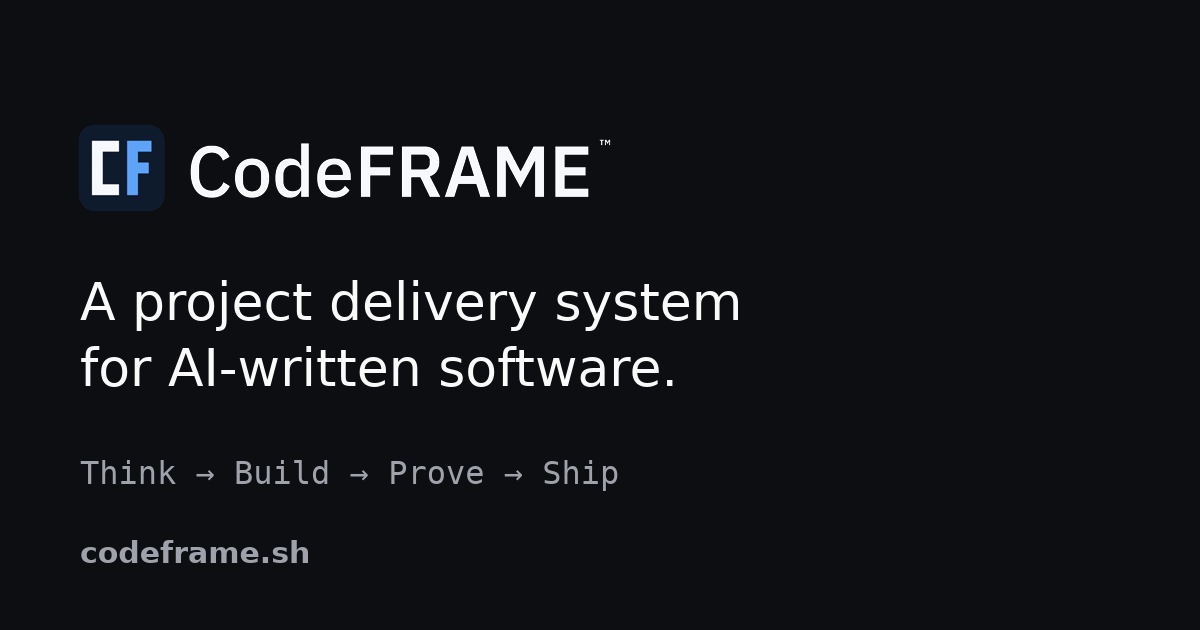
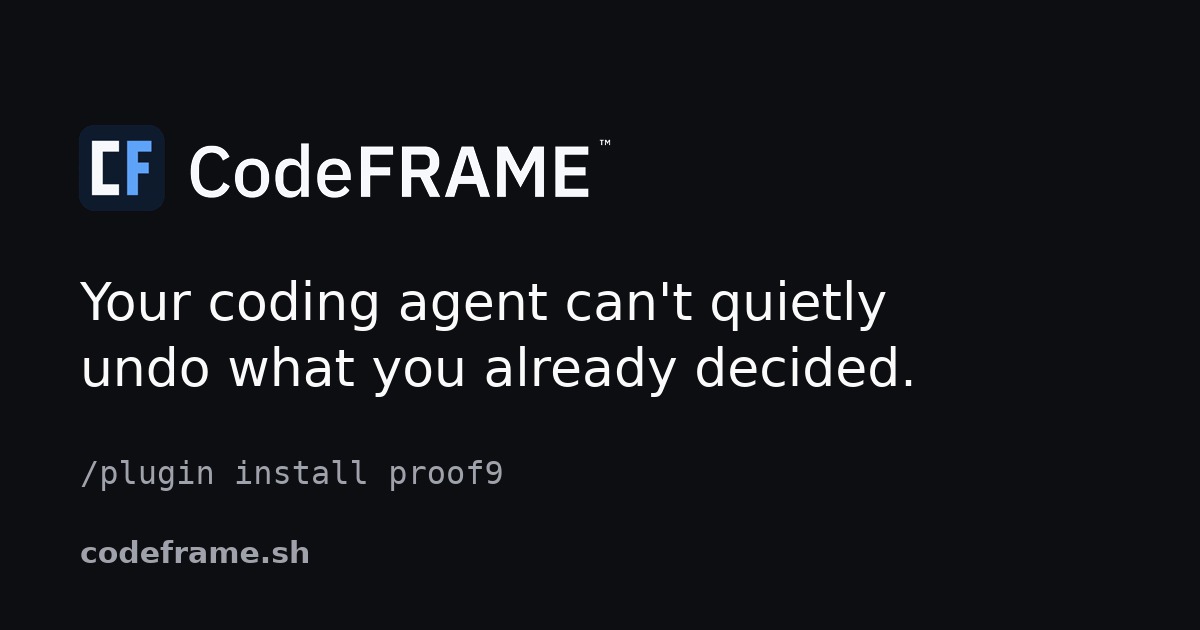
docs: lead with the requirement ledger, not the pipeline (#1522)
* docs: lead with the requirement ledger, not the pipeline

The README header, the codeframe.sh page and the social card still described
the product as it was before #1512 removed the web UI and the server: "a
project delivery system for AI-written software", with Think -> Build -> Prove
-> Ship on the card. The one thing a visitor can install is the proof9 plugin,
so the headline is now what the demo already showed - a coding agent cannot
quietly undo a decision already made - with the mechanism as the subhead and
"regression memory for coding agents" as the category line.

- README: new header, install line under the nav, Overview opens on the ledger
  and the pipeline follows, proof9 demo precedes the CLI demo.
- site: h1, lede, <title>, meta description, og:title, og:description,
  og:image:alt; make-og-image.sh copy and a regenerated og-image.png.
- proof9/README.md: "requirement" where the plugin says it (#1473).

No claim changed. The limitations block stays pinned to the README
(tests/ci/test_site_1465.py) and the differentiation wording is untouched.
tests/ci passes (81).

* docs: fix a mangled word and the documented status line

Review on #1522 caught two things:

- README.md:47 shipped "m waiver" — a character lost in transit. Rewritten
  rather than spot-fixed: the who/why/when enumeration duplicated the
  differentiation paragraph 16 lines below, which is where that detail belongs.
- proof9/README.md documented `proof9 · N requirements · M failing`. The
[…]

Changed region(s): [[0.0617, 0.4524, 0.7708, 0.6333], [0.0617, 0.7238, 0.3392, 0.7841], [0.37, 0.7238, 0.5242, 0.7841]]

diff --git a/site/index.html b/site/index.html
@@ -4,8 +4,8 @@
   <meta charset="utf-8">
   <meta name="viewport" content="width=device-width, initial-scale=1">
   <!-- COPY: page title and description -->
-  <title>CodeFRAME: a project delivery system for AI-written software</title>
-  <meta name="description" content="CodeFRAME owns everything before and after the code: requirements, task planning, verification and release. The coding itself goes to the agent of your choice.">
+  <title>CodeFRAME: regression memory for coding agents</title>
+  <meta name="description" content="Every bug you fix once, fixed forever: proof9 records it as a requirement, locks it to the code it affects, and checks it before every commit.">
   <meta name="color-scheme" content="light dark">
   <link rel="canonical" href="https://codeframe.sh/">
   <link rel="icon" href="favicon.svg" type="image/svg+xml">
@@ -15,12 +15,12 @@
   <!-- Social card. Crawlers need absolute URLs; regenerate the image with make-og-image.sh. -->
   <meta property="og:type" content="website">
   <meta property="og:url" content="https://codeframe.sh/">
-  <meta property="og:title" content="CodeFRAME: a project delivery system for AI-written software">
-  <meta property="og:description" content="CodeFRAME owns everything before and after the code: requirements, task planning, verification and release. The coding itself goes to the agent of your choice.">
+  <meta property="og:title" content="CodeFRAME: regression memory for coding agents">
+  <meta property="og:description" content="Every bug you fix once, fixed forever: proof9 records it as a requirement, locks it to the code it affects, and checks it before every commit.">
   <meta property="og:image" content="https://codeframe.sh/og-image.png">
   <meta property="og:image:width" content="1200">
   <meta property="og:image:height" content="630">
-  <meta property="og:image:alt" content="CodeFRAME: a project delivery system for AI-written software. Think, Build, Prove, Ship.">
+  <meta property="og:image:alt" content="CodeFRAME. Your coding agent can't quietly undo what you already decided. Install: /plugin install proof9.">
   <meta name="twitter:card" content="summary_large_image">
   <meta name="twitter:image" content="https://codeframe.sh/og-image.png">
 
@@ -69,9 +69,9 @@
       <img src="codeframe-lockup-primary.svg" alt="CodeFRAME" width="240" height="49">
     </picture>
     <!-- COPY: one sentence for someone who has never heard of it (README header) -->
-    <h1>A project delivery system for AI-written software.</h1>
-    <p class="lede">CodeFRAME owns everything before and after the code: requirements, task planning,
-      verification and release. The coding itself goes to the agent of your choice.</p>
+    <h1>Your coding agent can&rsquo;t quietly undo what you already decided.</h1>
+    <p class="lede">Every bug you fix once, fixed forever: proof9 records it as a requirement, locks it
+      to the code it affects, and checks it before every commit. Regression memory for coding agents.</p>
 
     <!-- The one call to action: install the plugin (#1476). -->
     <div class="install" aria-label="Install">

diff --git a/README.md b/README.md
@@ -3,9 +3,9 @@
 <h1 align="center">CodeFRAME™</h1>
 
 <p align="center">
-  <strong>A project delivery system for AI-written software.</strong><br>
-  CodeFRAME owns everything before and after the code: requirements, task planning, verification and release.<br>
-  The coding itself goes to the agent of your choice.
+  <strong>Your coding agent can&rsquo;t quietly undo what you already decided.</strong><br>
+  Every bug you fix once, fixed forever: recorded as a requirement, locked to the code it affects,<br>
+  and checked before every commit. Regression memory for coding agents.
 </p>
 
 <p align="center">
@@ -27,21 +27,28 @@
   <a href="CHANGELOG.md">Changelog</a>
 </p>
 
+<p align="center">
+  <code>/plugin install proof9 --marketplace frankbria/codeframe</code><br>
+  <sub>At a Claude Code prompt. Needs the <code>cf</code> CLI: <code>uv tool install codeframe-ai</code>.</sub>
+</p>
+
 ---
 
 ## Overview
 
-Coding agents have become very good at writing code, but writing code is not
-the same as shipping software. Before the code, someone decides what to build,
-breaks it into tasks an agent can finish, and resolves the ambiguities. After
-it, someone checks that it works, makes sure old bugs stay fixed, and merges
-with confidence. Today that someone is still you.
+Coding agents have become very good at writing code. What they have no memory
+of is what already went wrong. A bug you found, fixed and moved on from is, to
+the agent, just more code it is free to change next week.
 
-CodeFRAME automates those two edges. It turns an idea into a PRD and a
-dependency-ordered task graph, delegates each task to **Claude Code, Codex,
-OpenCode, Kilocode** or its built-in ReAct agent, verifies the result against
-an evidence-based quality ledger, and refuses to merge while a known problem is
-still open.
+CodeFRAME gives it that memory. A defect is recorded as a **requirement**,
+scoped to the code it affects, with a named test that proves it stays fixed.
+Every later change to that code is checked against it — before the commit in a
+Claude Code session, and again before the merge. Nothing is dropped silently:
+a requirement is released only by a recorded waiver.
+
+The same CLI also handles the work before the code — requirements discovery,
+task decomposition, and delegating each task to **Claude Code, Codex, OpenCode,
+Kilocode** or its built-in agent.
 
 | Stage | What CodeFRAME does | Commands |
 |---|---|---|
@@ -71,17 +78,6 @@ vacuous rather than green, and every waiver records who approved it, why, and
 
 ## See it in action
 
-### Command line
-
-The CLI is the primary interface and needs no server. Below, a real session
-initializes a workspace, imports a PRD, generates 18 dependency-ordered tasks
-with one LLM call, and captures a bug as a PROOF9 requirement.
-
-<p align="center">
-  <img src="docs/images/cli-tour.gif" alt="Terminal session: cf init, cf prd add, cf tasks generate producing 18 tasks, cf tasks list with dependencies, cf proof capture, cf proof status" width="820">
-</p>
-<p align="center"><sub>Sped up; the LLM wait is trimmed. Full walkthrough and command reference: <a href="docs/CLI_GUIDE.md">CLI guide</a>.</sub></p>
-
 ### In Claude Code
 
 The [proof9 plugin](proof9/README.md) brings the proof ledger into a Claude
@@ -97,6 +93,17 @@ requirement with its evidence and run history.
 A real session on codeframe 0.9.7 (cast: [`docs/images/proof9-loop.cast`](docs/images/proof9-loop.cast)).
 Asked for a change that would undo a past decision, Claude finds the locked
 requirement, keeps it, and says what it would take to change it on purpose.
+
+### Command line
+
+The CLI is the primary interface and needs no server. Below, a real session
+initializes a workspace, imports a PRD, generates 18 dependency-ordered tasks
+with one LLM call, and captures a bug as a PROOF9 requirement.
+
+<p align="center">
+  <img src="docs/images/cli-tour.gif" alt="Terminal session: cf init, cf prd add, cf tasks generate producing 18 tasks, cf tasks list with dependencies, cf proof capture, cf proof status" width="820">
+</p>
+<p align="center"><sub>Sped up; the LLM wait is trimmed. Full walkthrough and command reference: <a href="docs/CLI_GUIDE.md">CLI guide</a>.</sub></p>
 
 ---
 

diff --git a/proof9/README.md b/proof9/README.md
@@ -1,7 +1,8 @@
 # proof9
 
-A Claude Code plugin that turns a bug into a permanent, enforced proof obligation. It is a front door to the
-CodeFRAME CLI: every command runs `cf proof … --json`, so the ledger and its rules live in the CLI.
+A Claude Code plugin that records a bug as a requirement and checks it before every commit, so a fix
+stays fixed. It is a front door to the CodeFRAME CLI: every command runs `cf proof … --json`, so the
+ledger and its rules live in the CLI.
 
 Needs the CLI, version 0.9.7 or later:
 
@@ -30,16 +31,16 @@ when a requirement fails.
 
 When Claude runs `git commit`, proof9 runs `cf proof run` first.
 
-- **Warn (default):** failing obligations show a warning, and Claude reads which
+- **Warn (default):** failing requirements show a warning, and Claude reads which
   requirement and test failed right after the commit's output, so it can fix the
   regression in the same turn. The commit goes ahead.
-- **Block:** failing obligations deny the commit, naming the requirement and test.
+- **Block:** failing requirements deny the commit, naming the requirement and test.
   If the check itself cannot run (no `cf`, an error, the time limit), block mode
   denies too; warn mode lets the commit through with a warning.
 
 An empty ledger, or a run that verified nothing, is reported as such and never
 counts as a pass. Neither blocks. The status line shows
-`proof9 · N obligations · M failing`.
+`proof9: N requirements · M failing`.
 
 The check covers your working tree (modified, staged and untracked files), which
 is everything the commit can contain and possibly more. It can check more than

diff --git a/CHANGELOG.md b/CHANGELOG.md
@@ -7,6 +7,28 @@ and this project aims to follow [Semantic Versioning](https://semver.org/spec/v2
 
 ## [Unreleased]
 
+### Changed
+
+- **The public copy leads with the ledger, not the pipeline.** The README
+  header, the `codeframe.sh` page and the social card all opened on "a project
+  delivery system for AI-written software" and `Think → Build → Prove → Ship` —
+  a description of the product as it was before the web UI and server came out
+  (#1512). What a visitor can install is the proof9 plugin, so the headline is
+  now what the demo already showed: a coding agent cannot quietly undo a
+  decision already made. The install line moved under the README nav, the
+  proof9 demo now precedes the CLI demo, and the Overview opens on the
+  requirement ledger with the Think/Build pipeline following it. Page title,
+  meta description, Open Graph tags and the regenerated `og-image.png` match.
+  No claim changed: the limitations block is still pinned to the README
+  (`tests/ci/test_site_1465.py`) and the differentiation wording is untouched.
+
+- **proof9's README says "requirement" where the plugin does.** The opening
+  line called a capture a "permanent, enforced proof obligation", and the warn
+  and block descriptions and the status-line example said "obligations" — the
+  plugin has said "requirement" since #1473, and the status line it documents
+  never carried the word. "Obligation" stays where it names the CLI's data
+  model (a requirement holds one obligation per gate).
+
 ### Fixed
 
 - **`cf proof export` names no local path** (#1518). The report is meant to be
